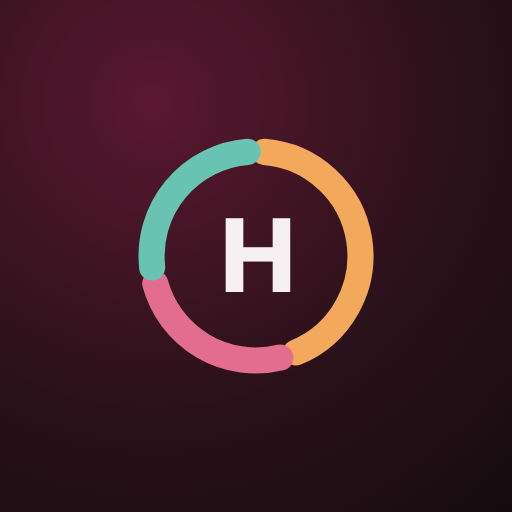
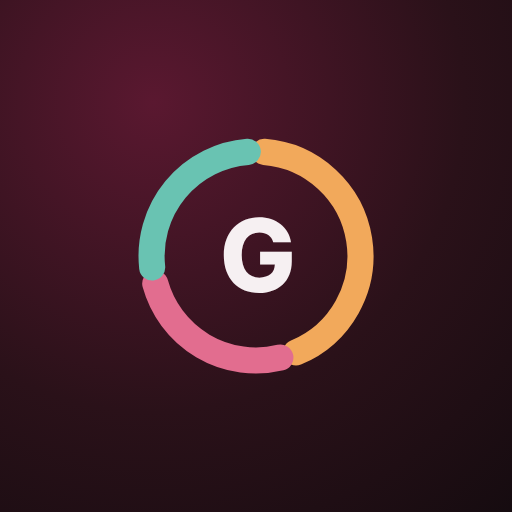
Rename the app to Gobble
New G icon, app/website/widget names, default profile name. Storage keys,
bundle IDs and the widget kind are unchanged, and old HokieMacros backups
still import.

Claude-Session: https://claude.ai/code/session_011MecdNzTuqD8AryT8hUah3

Changed region(s): [[0.4375, 0.4062, 0.5938, 0.5938]]

diff --git a/index.html b/index.html
@@ -11,8 +11,8 @@
 <meta name="apple-mobile-web-app-capable" content="yes">
 <meta name="mobile-web-app-capable" content="yes">
 <meta name="apple-mobile-web-app-status-bar-style" content="black">
-<meta name="apple-mobile-web-app-title" content="HokieMacros">
-<title>HokieMacros</title>
+<meta name="apple-mobile-web-app-title" content="Gobble">
+<title>Gobble</title>
 <link rel="preconnect" href="https://fonts.googleapis.com">
 <link href="https://fonts.googleapis.com/css2?family=Inter:wght@400;500;600;700;800&display=swap" rel="stylesheet">
 <style>
@@ -706,7 +706,7 @@ body.night #recCard{display:none!important}
   <div class="top rise" style="--i:0">
     <div class="title">Today <svg class="caret" viewBox="0 0 24 24" fill="currentColor"><path d="M6 9l6 6 6-6z"/></svg></div>
     <div class="topbtns"><button class="moonbtn pressable" id="moonBtn" onclick="toggleNight(this)" aria-label="Nightlife mode"><svg width="20" height="20" viewBox="0 0 24 24" fill="none" stroke="currentColor" stroke-width="2.1" stroke-linecap="round" stroke-linejoin="round"><path class="mi-moon" d="M20 14.5A8 8 0 0 1 9.5 4a8 8 0 1 0 10.5 10.5z"/><g class="mi-sun"><circle cx="12" cy="12" r="4"/><path d="M12 2v2M12 20v2M4.9 4.9l1.4 1.4M17.7 17.7l1.4 1.4M2 12h2M20 12h2M4.9 19.1l1.4-1.4M17.7 6.3l1.4-1.4"/></g></svg></button>
-    <button class="avatar pressable" onclick="go('more')" aria-label="Your profile">H</button></div>
+    <button class="avatar pressable" onclick="go('more')" aria-label="Your profile">G</button></div>
   </div>
   <div class="week rise" style="--i:1" id="week"></div>
 
@@ -854,12 +854,12 @@ body.night #recCard{display:none!important}
     <div class="title">You</div>
   </div>
   <button class="card rise profile pressable" style="--i:1" onclick="openGoals()">
-    <div class="avatar">H</div>
-    <div><h3 id="profName">Hokie</h3><div class="label" style="margin-top:3px" id="profSub"></div></div>
+    <div class="avatar">G</div>
+    <div><h3 id="profName">Gobbler</h3><div class="label" style="margin-top:3px" id="profSub"></div></div>
   </button>
   <div class="card group rise" style="--i:2" id="grp1"></div>
   <div class="card group rise" style="--i:3" id="grp2"></div>
-  <p class="note rise" style="--i:4">HokieMacros is free, ad-free and made by students.<br>Not affiliated with Virginia Tech.</p>
+  <p class="note rise" style="--i:4">Gobble is free, ad-free and made by students.<br>Not affiliated with Virginia Tech.</p>
 </section>
 
 <!-- ============ TAB BAR ============ -->
@@ -931,12 +931,12 @@ body.night #recCard{display:none!important}
 <div class="ascrim" onclick="closeAbout()"></div>
 <div class="dsheet asheet" role="dialog" aria-label="About and privacy">
   <div class="grab"></div>
-  <h3>About HokieMacros</h3>
+  <h3>About Gobble</h3>
   <div class="atext">
     <p>A free, ad-free nutrition tracker made by students for students on the Virginia Tech meal plan.</p>
     <h4>Your privacy</h4>
     <p>There are no accounts. Everything you log stays on this phone, in this browser. Nothing is sent to us or anyone else, and there's no tracking or ads.</p>
-    <p><b>Steps from Apple Health or Health Connect:</b> if you turn on step syncing in the app, HokieMacros reads only your step count. It is shown in your log on this phone and never leaves it. HokieMacros doesn't write anything to Apple Health or Health Connect, and you can turn syncing off from the Steps card.</p>
+    <p><b>Steps from Apple Health or Health Connect:</b> if you turn on step syncing in the app, Gobble reads only your step count. It is shown in your log on this phone and never leaves it. Gobble doesn't write anything to Apple Health or Health Connect, and you can turn syncing off from the Steps card.</p>
     <h4>Where the data comes from</h4>
     <p><b>Dining menus, nutrition and hours:</b> VT Dining Services, refreshed every morning.<br>
        <b>Gym and pool hours:</b> VT Recreational Sports.<br>
@@ -945,8 +945,8 @@ body.night #recCard{display:none!important}
        <b>Brand and restaurant foods:</b> <a href="https://www.fatsecret.com" target="_blank" rel="noopener">Powered by fatsecret</a>.</p>
     <p>Menus and hours can change without notice. Check signs in the dining center, especially for allergens.</p>
     <h4>Not medical advice</h4>
-    <p>Calorie and nutrient numbers are estimates. HokieMacros isn't a substitute for advice from a doctor or registered dietitian.</p>
-    <p class="fine">HokieMacros is an independent student project and is not affiliated with or endorsed by Virginia Tech.</p>
+    <p>Calorie and nutrient numbers are estimates. Gobble isn't a substitute for advice from a doctor or registered dietitian.</p>
+    <p class="fine">Gobble is an independent student project and is not affiliated with or endorsed by Virginia Tech.</p>
   </div>
   <button class="primary pressable" style="width:100%;margin-top:6px" onclick="closeAbout()">Done</button>
 </div>
@@ -1969,7 +1969,7 @@ function openSteps(){
     const t=STORE.healthAt?new Date(STORE.healthAt).toLocaleTimeString([], {hour:'numeric',minute:'2-digit'}):'';
     return openForm({title:'Steps',sub:`Today · from ${HNAME()}`,saveLabel:'Sync now',
       body:`<div class="hsync"><div class="hbig">${fmtN(rec.steps||0)}</div><div class="label">steps today${t?` · updated ${t}`:''}</div></div>
-        <p class="fnote">HokieMacros reads your steps from ${HNAME()} each time you open the app. ${HNAME()==='Health Connect'?'Zero steps when you’ve been walking usually means access is off or no app is counting steps: open <b>Health Connect</b> → <b>App permissions</b> → HokieMacros and allow Steps, and make sure Google Fit, Samsung Health or your phone’s fitness app is set to share steps.':'Zero steps when you’ve been walking usually means access is off: open the <b>Health</b> app → your profile → <b>Apps</b> → HokieMacros, and turn on Steps.'}</p>
+        <p class="fnote">Gobble reads your steps from ${HNAME()} each time you open the app. ${HNAME()==='Health Connect'?'Zero steps when you’ve been walking usually means access is off or no app is counting steps: open <b>Health Connect</b> → <b>App permissions</b> → Gobble and allow Steps, and make sure Google Fit, Samsung Health or your phone’s fitness app is set to share steps.':'Zero steps when you’ve been walking usually means access is off: open the <b>Health</b> app → your profile → <b>Apps</b> → Gobble, and turn on Steps.'}</p>
         <button class="linkbtn" onclick="healthOff()">Stop syncing and enter steps myself</button>`,
       onSave:()=>{ syncSteps(false).then(ok=>toast(ok?'Steps updated':`Couldn’t read ${HNAME()}`)); }});
   }
@@ -2080,7 +2080,7 @@ function renderGoalsForm(){
   $('gForm').innerHTML=`
     <div class="station">About you</div>
     <div class="card gcard">
-      <label class="field"><span>First name (optional)</span><input class="numin" id="gName" value="${esc(g.name)}" placeholder="Hokie" maxlength="24" oninput="G.name=this.value"></label>
+      <label class="field"><span>First name (optional)</span><input class="numin" id="gName" value="${esc(g.name)}" placeholder="Gobbler" maxlength="24" oninput="G.name=this.value"></label>
       <div class="field"><span>Sex · used by the calorie formula</span>${pills('sex',[['m','Male'],['f','Female']],g.sex)}</div>
       <div class="g3">
         <label class="field"><span>Age</span>${numIn('gAge',g.age,'19','oninput="gNum(\'age\',this.value)"')}</label>
@@ -2182,8 +2182,8 @@ function applyGoals(){
 }
 function renderProfile(){
   const pr=STORE.profile, nm=(pr.name||'').trim();
-  document.querySelectorAll('.avatar').forEach(a=>a.textContent=(nm[0]||'H').toUpperCase());
-  $('profName').textContent=nm||'Hokie';
+  document.querySelectorAll('.avatar').forEach(a=>a.textContent=(nm[0]||'G').toUpperCase());
+  $('profName').textContent=nm||'Gobbler';
   const g=STORE.goals;
   $('profSub').textContent=pr.setup?`${fmtN(g.cal)} cal a day · ${pr.macros==='grams'?'Exact macros':pr.manual?'Custom goal':pr.goal==='maintain'?'Maintain weight':(pr.goal==='lose'?'Lose ':'Gain ')+pr.rate+' lb a week'}`:'Goals not set up yet';
   $('setupCard').style.display=pr.setup?'none':'';
@@ -2505,7 +2505,7 @@ const isIOS=/iP(hone|ad|od)/.test(navigator.userAgent)||(navigator.platform==='M
 let installEvt=null;
 if(!NATIVE&&'serviceWorker' in navigator&&(location.protocol==='https:'||location.hostname==='localhost')) navigator.serviceWorker.register('sw.js').catch(()=>{});
 window.addEventListener('beforeinstallprompt',e=>{ e.preventDefault(); installEvt=e; renderInstallCard(); });
-window.addEventListener('appinstalled',()=>{ installEvt=null; STORE.installDismissed=true; saveStore(); renderInstallCard(); toast('HokieMacros is on your home screen'); });
+window.addEventListener('appinstalled',()=>{ installEvt=null; STORE.installDismissed=true; saveStore(); renderInstallCard(); toast('Gobble is on your home screen'); });
 // ask the browser not to clear your log when space runs low
 function keepData(){ try{ navigator.storage&&navigator.storage.persist&&navigator.storage.persist(); }catch(e){} }
 if(isStandalone()) keepData();
@@ -2515,14 +2515,14 @@ function renderInstallCard(){
   const native=!!(window.Capacitor&&window.Capacitor.isNativePlatform&&window.Capacitor.isNativePlatform());
   const show=!native&&!isStandalone()&&!STORE.installDismissed&&(isIOS||installEvt||/Android/i.test(navigator.userAgent));
   el.hidden=!show; if(!show) return;
-  el.innerHTML=`<img src="icons/icon-192.png" alt="" width="44" height="44"><div><b>Get the app</b><span>Add HokieMacros to your home screen. It opens full screen, works offline and keeps your log safe.</span></div>
+  el.innerHTML=`<img src="icons/icon-192.png" alt="" width="44" height="44"><div><b>Get the app</b><span>Add Gobble to your home screen. It opens full screen, works offline and keeps your log safe.</span></div>
     <button class="ibtn pressable" onclick="installApp()">${installEvt?'Install':'How'}</button><button class="ix" onclick="STORE.installDismissed=true;saveStore();renderInstallCard()" aria-label="Dismiss">×</button>`;
 }
 function installApp(){
   if(installEvt){ installEvt.prompt(); installEvt.userChoice.finally(()=>{installEvt=null;renderInstallCard();}); return; }
   const share='<svg width="18" height="18" viewBox="0 0 24 24" fill="none" stroke="currentColor" stroke-width="2" stroke-linecap="round" stroke-linejoin="round" style="vertical-align:-3px"><path d="M12 3v12M8 7l4-4 4 4M6 11H5a1 1 0 0 0-1 1v8a1 1 0 0 0 1 1h14a1 1 0 0 0 1-1v-8a1 1 0 0 0-1-1h-1"/></svg>';
   openForm({title:'Add to Home Screen',sub:isIOS?'iPhone and iPad':'Android',saveLabel:'Got it',
-    body:isIOS?`<ol class="isteps"><li>Open this page in <b>Safari</b>.</li><li>Tap the Share button ${share} at the bottom of the screen.</li><li>Scroll down and tap <b>Add to Home Screen</b>, then <b>Add</b>.</li></ol><p class="fnote">Then open HokieMacros from your home screen. Home Screen apps aren’t cleared the way Safari clears websites you haven’t visited in a while.</p>${STORE.days&&Object.keys(STORE.days).length?'<p class="fnote">The home screen app starts with its own storage. To bring what you’ve logged here, tap <b>You → Settings → Back up my data</b> first, then <b>Restore from a backup</b> in the app.</p>':''}`
+    body:isIOS?`<ol class="isteps"><li>Open this page in <b>Safari</b>.</li><li>Tap the Share button ${share} at the bottom of the screen.</li><li>Scroll down and tap <b>Add to Home Screen</b>, then <b>Add</b>.</li></ol><p class="fnote">Then open Gobble from your home screen. Home Screen apps aren’t cleared the way Safari clears websites you haven’t visited in a while.</p>${STORE.days&&Object.keys(STORE.days).length?'<p class="fnote">The home screen app starts with its own storage. To bring what you’ve logged here, tap <b>You → Settings → Back up my data</b> first, then <b>Restore from a backup</b> in the app.</p>':''}`
       :`<ol class="isteps"><li>Tap the <b>⋮</b> menu in Chrome.</li><li>Tap <b>Add to Home screen</b> or <b>Install app</b>.</li></ol>`,
     onSave:()=>{}});
 }
@@ -2536,15 +2536,15 @@ function openSettings(){
         ${isStandalone()?'':`<button class="row" onclick="closeForm();setTimeout(installApp,380)"><span>Add to Home Screen</span><small>Full screen, offline, safer storage</small></button>`}
         <button class="row danger" onclick="eraseAll()"><span>Erase all data</span><small>Diary, goals, weights, foods and meals</small></button></div>
       <input type="file" id="importFile" accept="application/json,.json" hidden onchange="importData(this.files[0])">
-      <p class="fnote">HokieMacros has no accounts. Nothing you log is sent anywhere, so a backup file is how you move it to a new phone.</p>`,
+      <p class="fnote">Gobble has no accounts. Nothing you log is sent anywhere, so a backup file is how you move it to a new phone.</p>`,
     onSave:()=>{}});
 }
 async function exportData(){
-  const name=`hokiemacros-backup-${todayISO()}.json`, text=JSON.stringify({app:'HokieMacros',version:1,exported:new Date().toISOString(),data:STORE},null,1);
+  const name=`gobble-backup-${todayISO()}.json`, text=JSON.stringify({app:'Gobble',version:1,exported:new Date().toISOString(),data:STORE},null,1);
   const cap=window.Capacitor; // inside the Android/iPhone app, save the file and open the share sheet
   if(cap&&cap.isNativePlatform&&cap.isNativePlatform()&&cap.Plugins&&cap.Plugins.Filesystem&&cap.Plugins.Share){
     try{ const r=await cap.Plugins.Filesystem.writeFile({path:name,data:text,directory:'CACHE',encoding:'utf8'});
-      await cap.Plugins.Share.share({title:'HokieMacros backup',files:[r.uri]}); return; }catch(e){ if(String(e).includes('cancel')) return; }
+      await cap.Plugins.Share.share({title:'Gobble backup',files:[r.uri]}); return; }catch(e){ if(String(e).includes('cancel')) return; }
   }
   const blob=new Blob([text],{type:'application/json'});
   const a=document.createElement('a'); a.href=URL.createObjectURL(blob); a.download=name; document.body.appendChild(a); a.click(); a.remove();
@@ -2552,13 +2552,13 @@ async function exportData(){
 }
 async function importData(file){
   if(!file) return;
-  try{ const j=JSON.parse(await file.text()); const d=j&&j.app==='HokieMacros'?j.data:j;
+  try{ const j=JSON.parse(await file.text()); const d=j&&(j.app==='Gobble'||j.app==='Gobble')?j.data:j;
     if(!d||typeof d!=='object'||!d.days) throw 0;
     const n=Object.keys(d.days).length;
     closeForm(); setTimeout(()=>openForm({title:'Restore backup?',sub:`${n} day${n===1?'':'s'} of logs`,saveLabel:'Replace my data',
       body:`<p class="fnote" style="font-size:14px">Everything on this phone will be replaced by the backup from ${esc((j.exported||'').slice(0,10)||'that file')}.</p>`,
       onSave:()=>{ localStorage.setItem(STORE_KEY,JSON.stringify(d)); location.reload(); }}),380);
-  }catch(e){ toast('That file isn’t a HokieMacros backup'); }
+  }catch(e){ toast('That file isn’t a Gobble backup'); }
 }
 function eraseAll(){
   closeForm(); setTimeout(()=>openForm({title:'Erase everything?',sub:'This can’t be undone',saveLabel:'Erase all data',

diff --git a/ios-app/native/HokieWidget/HokieWidget.swift b/ios-app/native/HokieWidget/HokieWidget.swift
@@ -159,7 +159,7 @@ struct WidgetView: View {
             }
         } else {
             VStack(alignment: .leading, spacing: 6) {
-                Text("HokieMacros").font(.system(size: 13, weight: .heavy)).foregroundColor(.hmOrange)
+                Text("Gobble").font(.system(size: 13, weight: .heavy)).foregroundColor(.hmOrange)
                 Text("Open the app and log a meal to see today's calories here.").font(.system(size: 12, weight: .medium)).foregroundColor(.white.opacity(0.8))
             }.frame(maxWidth: .infinity, maxHeight: .infinity, alignment: .topLeading)
         }

diff --git a/android-app/www/index.html b/android-app/www/index.html
@@ -1,3 +1,3 @@
 <!DOCTYPE html><html><head><meta charset="utf-8"><meta name="viewport" content="width=device-width,initial-scale=1">
 <style>html,body{margin:0;height:100%;background:#110b0e;color:#F6F0F2;font-family:system-ui,sans-serif;display:grid;place-items:center;text-align:center}p{color:#988a91}</style></head>
-<body><div><h2>HokieMacros</h2><p>Connect to the internet once to finish setting up.</p></div></body></html>
+<body><div><h2>Gobble</h2><p>Connect to the internet once to finish setting up.</p></div></body></html>

diff --git a/ios-app/www/index.html b/ios-app/www/index.html
@@ -1,3 +1,3 @@
 <!DOCTYPE html><html><head><meta charset="utf-8"><meta name="viewport" content="width=device-width,initial-scale=1">
 <style>html,body{margin:0;height:100%;background:#110b0e;color:#F6F0F2;font-family:system-ui,sans-serif;display:grid;place-items:center;text-align:center}p{color:#988a91}</style></head>
-<body><div><h2>HokieMacros</h2><p>Connect to the internet once to finish setting up.</p></div></body></html>
+<body><div><h2>Gobble</h2><p>Connect to the internet once to finish setting up.</p></div></body></html>

diff --git a/sw.js b/sw.js
@@ -1,4 +1,4 @@
-// HokieMacros service worker: works offline, stays fresh online.
+// Gobble service worker: works offline, stays fresh online.
 const V = 'hm-v1';
 const SHELL = ['./', './index.html', './manifest.webmanifest', './icons/icon-192.png', './icons/apple-touch-icon.png', './campus-clean.webp'];
 

diff --git a/README.md b/README.md
@@ -1,4 +1,4 @@
-# HokieMacros
+# Gobble
 
 A free, ad-free nutrition tracker for Virginia Tech students on the meal plan.
 Live menus, nutrition and hours for every dining hall, plus McComas and War Memorial gym hours, on a campus map.
